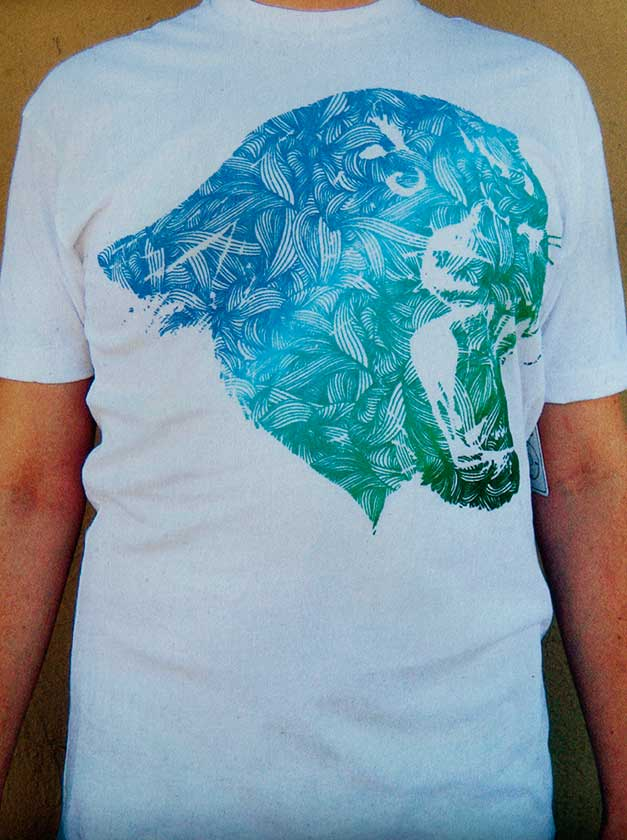
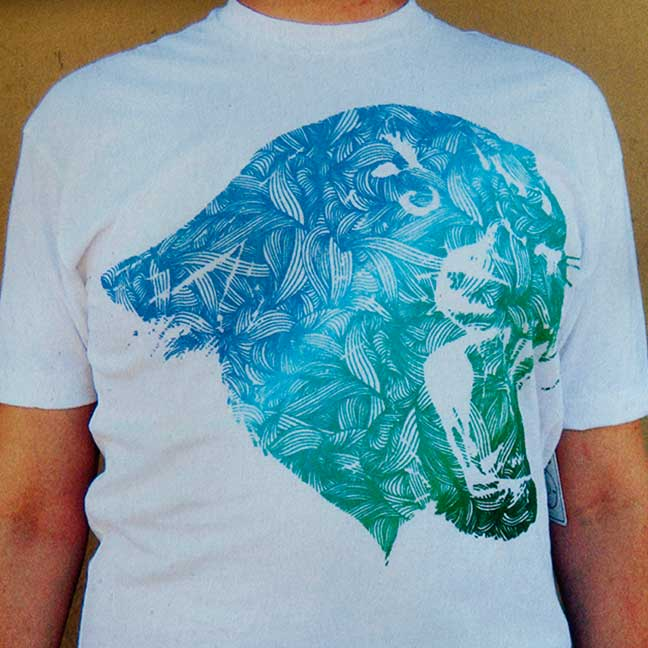
Added jaguar imagery and changed description

diff --git a/_includes/css/product-list.css b/_includes/css/product-list.css
@@ -24,7 +24,7 @@ div.slideshow span.image-wrapper {
 div.slideshow a.advance-link {
 	display: block;
 	background-color: white;
-	height: 0; /* This should be set to be at least the height of the largest image in the slideshow */
+	height: 350px; /* This should be set to be at least the height of the largest image in the slideshow */
 	text-align: center;
 	border:none;
 

diff --git a/_layouts/products.html b/_layouts/products.html
@@ -62,6 +62,7 @@ layout: default
 		</div>
 		<div class="gutter unit unit-s-1 unit-m-1-2 unit-l-2-3">
 			<dl>
+				<dt>Artist:</dt><dd class="giga">{{page.artist}}</dd>
 				<dt>Price:</dt><dd class="giga">{{page.price}}</dd>
 				<dt>Material:</dt><dd>{{page.material}}</dd>
 				<dt>Description:</dt><dd>{{content}}</dd>

diff --git a/products/mens/brooklyn.md b/products/mens/brooklyn.md
@@ -1,12 +1,13 @@
 ---
 layout: products
-title: Jaguar
-meta: Fragmented typographic design built from colourful bits and pieces.
+title: Technicolor Dreamcat
+meta: Line art jaguar in gradations of blue and green.
 type: mens
 price: $15.99
 material: 100% combed ringspun cotton; garment-dyed for premium softness and minimal shrinkage.
+artist: Hannah Stouffer
 image: mens/jaguar.jpg
-thumb: mens/japan.jpg
+thumb: mens/jaguar2.jpg
 ---
 
 *Jaguar* brings New York's colourful underbelly to the forefront.
